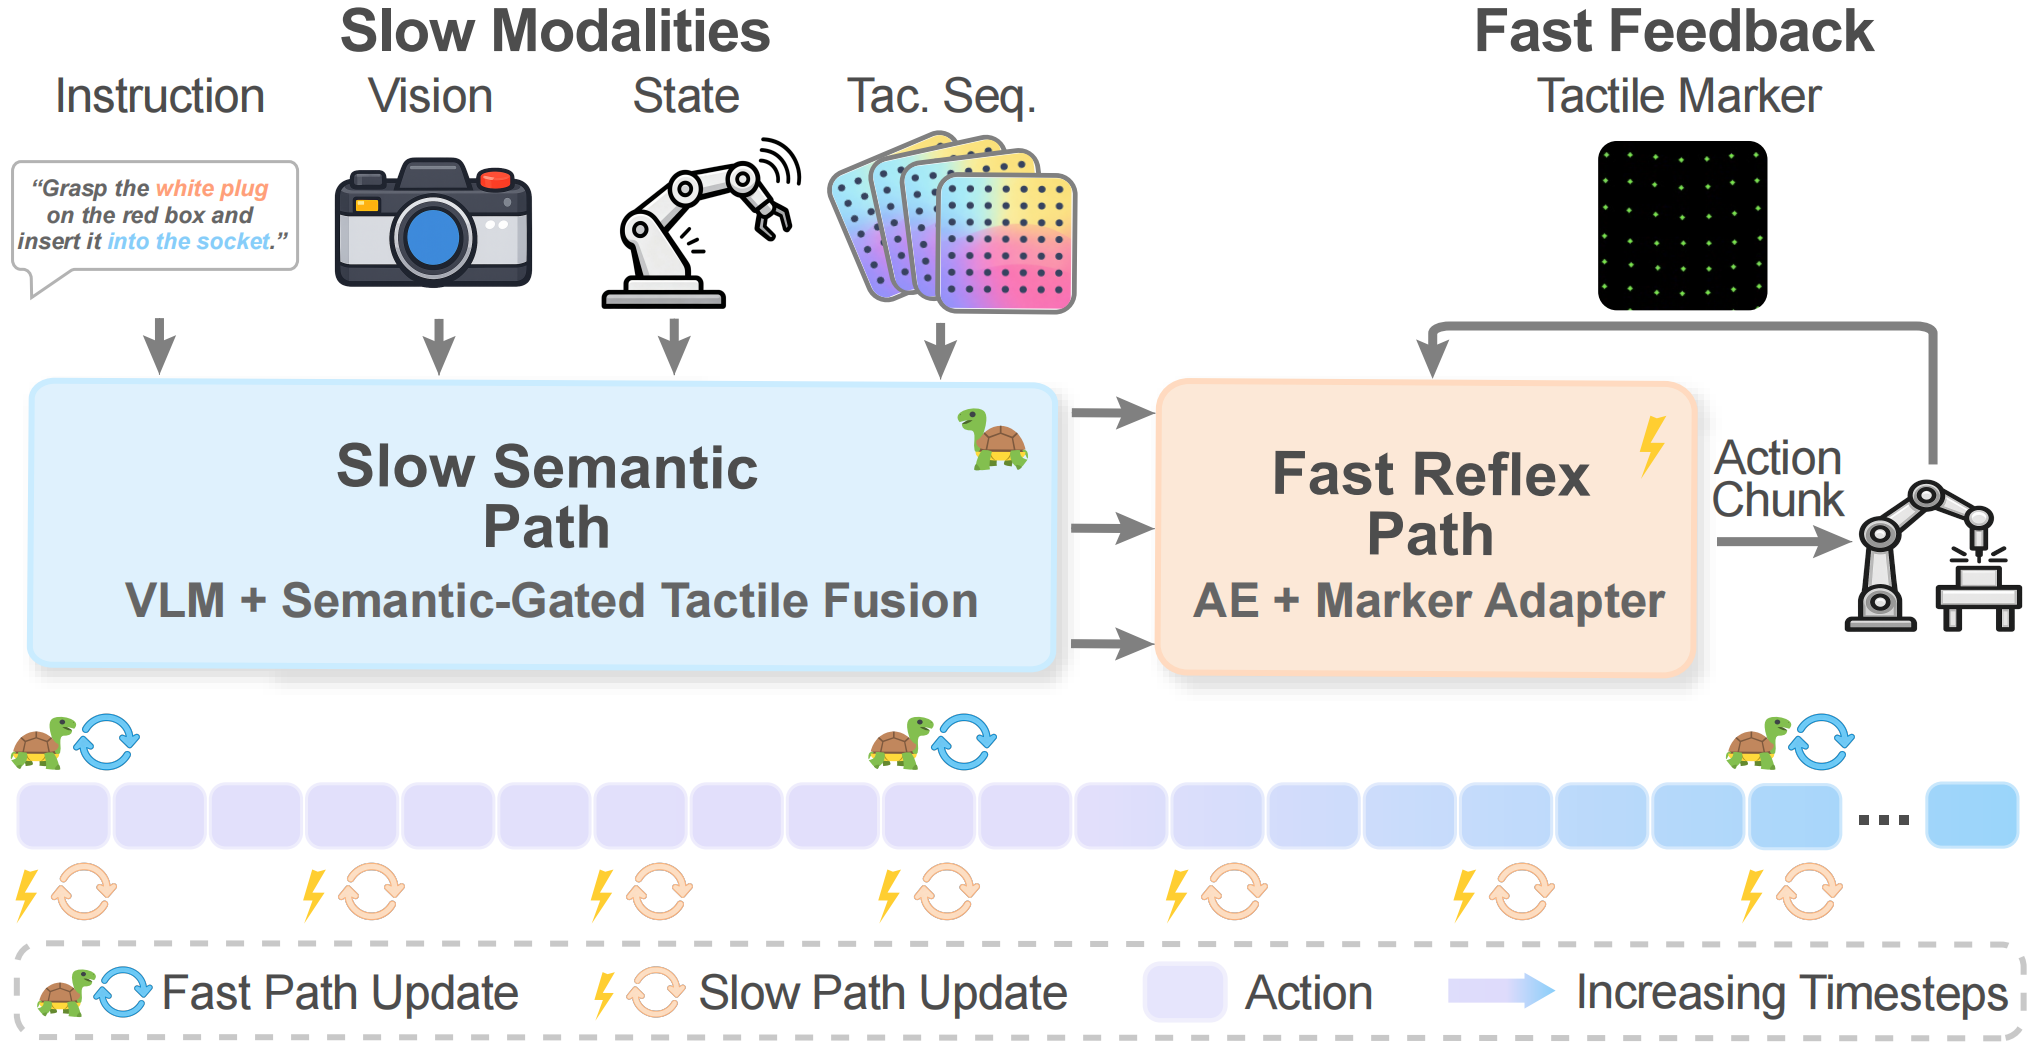
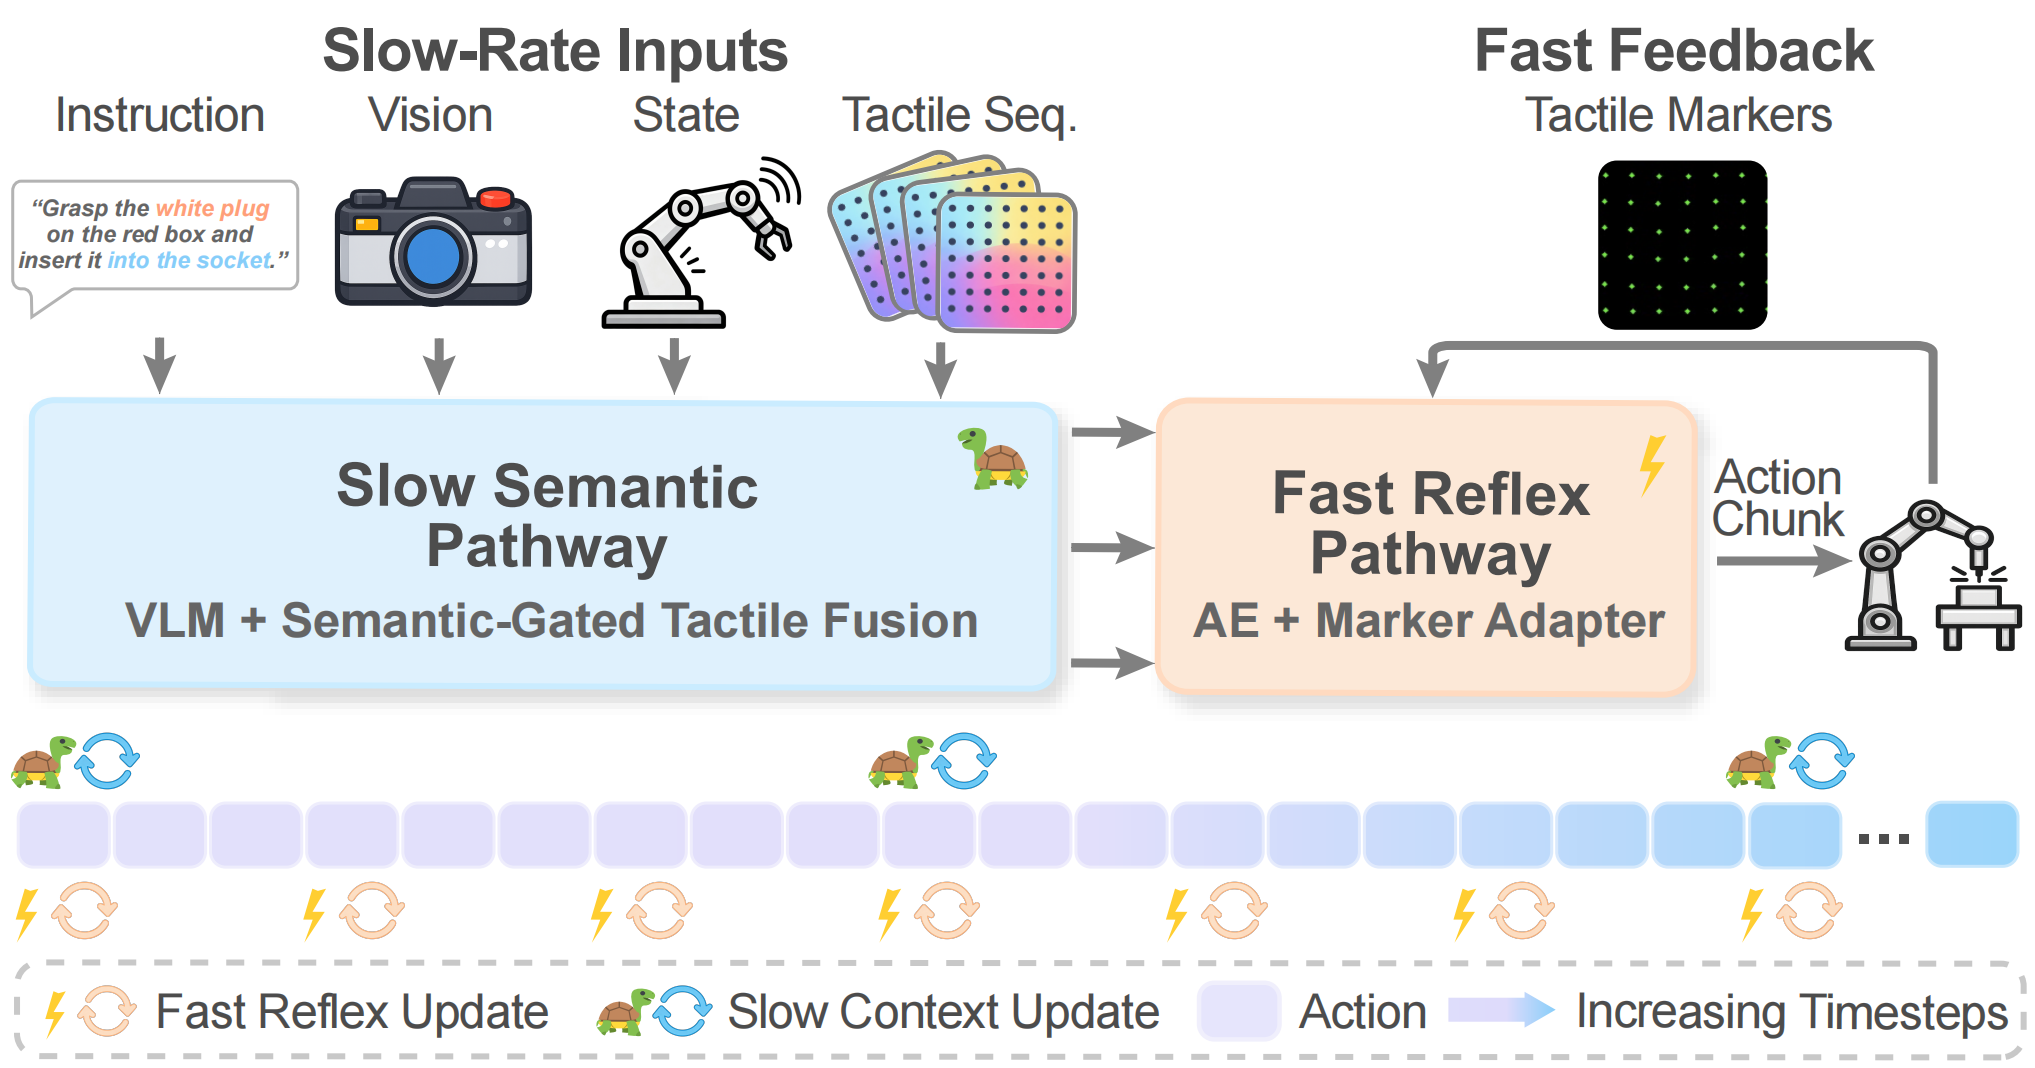
update

diff --git a/index.html b/index.html
@@ -239,16 +239,24 @@
             <div class="column has-text-centered" style="margin-top: 1rem;">
               <div class="publication-links">
                 <!-- Paper PDF link (not yet available) -->
-                <!-- <a href="#" target="_blank" class="button is-normal is-rounded is-dark">
-                  <span class="icon"><i class="fas fa-file-pdf"></i></span>
-                  <span>Paper</span>
-                </a> -->
+                <span class="link-block">
+                  <button class="external-link button is-normal is-rounded is-dark" type="button">
+                    <span class="icon">
+                      <i class="fas fa-file-pdf"></i>
+                    </span>
+                    <span>Paper</span>
+                  </button>
+                </span>
 
                 <!-- Code link (not yet available) -->
-                <!-- <a href="#" target="_blank" class="button is-normal is-rounded is-dark">
-                  <span class="icon"><i class="fab fa-github"></i></span>
-                  <span>Code</span>
-                </a> -->
+                <span class="link-block">
+                  <button class="external-link button is-normal is-rounded is-dark" type="button">
+                    <span class="icon">
+                      <i class="fab fa-github"></i>
+                    </span>
+                    <span>Code (coming soon)</span>
+                  </button>
+                </span>
               </div>
             </div>
 
@@ -270,7 +278,7 @@
       <img src="assets/images/teaser_01.png" alt="DT-TacVLA dual-timescale tactile fusion illustration" class="section-image" style="max-width: 75%;">
       <!-- Teaser caption -->
       <p class="teaser-caption has-text-justified">
-        <strong>DT-TacVLA</strong> is a dual-timescale tactile fusion framework built on SmolVLA that processes tactile inputs along two complementary pathways. The <em>slow semantic pathway</em> operates at a lower update rate and adaptively fuses tactile image sequences with VLM features through a semantic-guided gating mechanism, producing a reusable task&ndash;contact context. The <em>fast reflex pathway</em> is triggered multiple times during the execution of a single action chunk: it encodes the current tactile marker displacements into compact tokens and injects them into the action expert through a Tactile-Marker Adapter, providing real-time contact feedback modulation.
+        <strong>DT-TacVLA</strong> is a dual-timescale tactile fusion framework built on top of SmolVLA. Tactile image sequences, together with vision-language-proprioceptive inputs, enter the slow pathway to form a reusable task&ndash;contact context; tactile marker displacements serve as high-rate feedback to the fast pathway and instantaneously modulate the action chunks produced by the action expert. The bottom timeline illustrates the update-rate relationship between the slow and fast pathways.
       </p>
     </div>
   </section>
@@ -286,13 +294,13 @@
       <div class="highlight-box">
         <ul>
           <!-- Highlight 1: dual-timescale framework -->
-          <li>We propose <strong>DT-TacVLA</strong>, a dual-timescale tactile-enhanced VLA framework that places tactile image sequences and marker displacements on slow and fast timescales, respectively, inducing a hierarchical coupling between slow-context constraint and fast-feedback modulation.</li>
+          <li>We propose <strong>DT-TacVLA</strong>, a dual-timescale tactile-enhanced VLA framework that separates tactile image sequences and marker displacements by their semantic and feedback roles, letting the action expert combine a low-rate VLM-guided context with high-rate marker feedback through hierarchical slow&ndash;fast coupling.</li>
           <!-- Highlight 2: semantic-guided gating mechanism -->
-          <li>We design a <strong>Semantic-Guided Tactile Gating</strong> mechanism in the slow semantic pathway that adaptively fuses tactile image-sequence features based on VLM semantic summaries and proprioceptive state, producing a semantically conditioned slow context reusable across multiple fast reflex updates.</li>
+          <li>We design a <strong>Semantic-Guided Tactile Gating</strong> mechanism that conditions tactile image-sequence fusion on layer-wise VLM semantic summaries and proprioceptive state, producing a reusable slow context for subsequent fast reflex updates.</li>
           <!-- Highlight 3: marker-based reflex modulation -->
-          <li>We propose a <strong>Marker-Based Reflex Modulation</strong> method that encodes sparse tactile marker displacements into compact token representations and injects them into the action expert as additive residual attention, enabling real-time correction with only modest additional inference cost.</li>
+          <li>We introduce <strong>Marker-Based Reflex Modulation</strong>, which encodes sparse tactile marker displacements into compact tactile tokens and injects them through a lightweight adapter, enabling real-time action-chunk correction with low inference overhead.</li>
           <!-- Highlight 4: experimental validation -->
-          <li>DT-TacVLA consistently outperforms vision-only VLA baselines (Diffusion Policy, &pi;<sub>0.5</sub>, SmolVLA) and ablation variants on three contact-rich real-world manipulation tasks, achieving <strong>91.7%</strong> average success rate.</li>
+          <li>DT-TacVLA consistently outperforms vision-only VLA baselines (Diffusion Policy, &pi;<sub>0.5</sub>, SmolVLA) on three contact-rich real-world manipulation tasks, achieving <strong>91.7%</strong> average success rate.</li>
         </ul>
       </div>
     </div>
@@ -306,13 +314,13 @@
           <h2 class="title is-3">Abstract</h2>
           <div class="content has-text-justified">
             <p>
-              Vision&ndash;Language&ndash;Action (VLA) models exhibit strong semantic understanding and policy generalization, yet their predominantly vision-centric perception struggles to characterize key contact states such as contact establishment, in-hand slip, and normal/shear interactions, which limits their performance in contact-rich manipulation. In this paper, we propose <strong>DT-TacVLA</strong> (Dual-Timescale Tactile VLA), a dual-timescale tactile fusion framework built on top of SmolVLA that processes tactile inputs along two complementary slow and fast pathways.
+              Vision&ndash;Language&ndash;Action (VLA) models exhibit strong semantic understanding and policy generalization, yet their predominantly vision-centric perception struggles to characterize key contact states such as contact establishment, in-hand slip, and normal and shear contact interactions, which limits their performance in contact-rich manipulation. In this paper, we propose <strong>DT-TacVLA</strong> (Dual-Timescale Tactile-Enhanced VLA), a dual-timescale tactile fusion framework built on top of SmolVLA that processes tactile inputs along two complementary slow and fast pathways.
             </p>
             <p>
-              The <em>slow semantic pathway</em> operates at a lower update rate and adaptively fuses tactile image sequences with VLM features through a semantic-guided gating mechanism, producing a task&ndash;contact context that can be reused across multiple fast reflex updates. The <em>fast reflex pathway</em> is triggered multiple times during the execution of a single action chunk: it encodes the current tactile marker displacements into compact tokens and injects them into the action expert through a Tactile-Marker Adapter under the fixed slow-context conditioning, thereby providing real-time contact feedback modulation of the action chunk.
+              The <em>slow semantic pathway</em> operates at a lower update rate and adaptively fuses tactile image sequences with VLM features through a semantic-guided gating mechanism, producing a task&ndash;contact context that can be reused across multiple fast reflex updates. The <em>fast reflex pathway</em> is triggered multiple times during the execution of a single action chunk. Under the fixed slow-context conditioning, it encodes the current tactile marker displacements into compact tokens and injects them into the action expert through a Tactile-Marker Adapter, thereby providing real-time contact feedback modulation of the action chunk.
             </p>
             <p>
-              On three contact-rich real-world manipulation tasks&mdash;power plug insertion, USB connector insertion, and test-tube placement&mdash;DT-TacVLA consistently outperforms vision-only VLA baselines and its ablation variants in success rate.
+              We evaluate DT-TacVLA on three contact-rich real-world manipulation tasks: power plug insertion, USB connector insertion, and test tube placement. The results show that DT-TacVLA consistently outperforms vision-only VLA baselines in success rate.
             </p>
           </div>
         </div>
@@ -334,23 +342,23 @@
       <div class="content has-text-justified">
         <!-- Core design philosophy -->
         <p>
-          <strong>DT-TacVLA</strong> consists of three core modules:
+          Given expert demonstration trajectories, <strong>DT-TacVLA</strong> learns a Vision-Tactile-Language-Action (VTLA) policy that maps visual observation, language instruction, robot proprioceptive state, a recent tactile image sequence, and current tactile marker displacements to a continuous action chunk.
         </p>
         <p>
-          <strong>(a) Slow semantic pathway:</strong> The VLM processes vision and language inputs at a low rate and outputs multi-layer hidden states. A tactile sequence encoder extracts temporal features from the recent tactile history. A semantic-guided gating mechanism fuses the semantic summary, the proprioceptive encoding, and the tactile sequence features to produce slow-context conditions, which are written into a reusable K/V cache.
+          <strong>(a) Slow semantic pathway:</strong> The VLM processes vision and language inputs at a low rate and outputs multi-layer hidden states aligned with the action expert. TacVideoMAE extracts temporal features from the recent tactile image history, and the semantic-guided gating mechanism fuses the layer-wise semantic summary, proprioceptive encoding, and tactile sequence features to produce slow-context conditions. These conditions are written into a reusable K/V cache and remain fixed across several subsequent fast reflex updates.
         </p>
         <p>
-          <strong>(b) Fast reflex pathway:</strong> The action expert reuses the cached slow-context conditions. Meanwhile, a marker extractor obtains low-dimensional tactile markers from the tactile images, encodes them into tactile tokens, and injects them into the action tokens as an additive residual to generate continuous action chunks.
+          <strong>(b) Fast reflex pathway:</strong> The action expert reuses the cached slow-context conditions. Meanwhile, the marker extractor tracks the tactile marker array in the most recent frame, encodes the marker displacements into compact tactile tokens, and injects them into the action tokens as an additive residual through the Tactile-Marker Adapter.
         </p>
         <p>
-          <strong>(c) Fast&ndash;slow coupling:</strong> The slow system updates the context cache at a low rate, while the fast system continuously updates the action chunk under this constraint based on the most recent tactile markers. This hierarchical coupling ensures stable task understanding with responsive contact correction.
+          <strong>(c) Fast&ndash;slow coupling:</strong> The slow pathway determines the task&ndash;contact semantics that the action expert should attend to, while the fast pathway applies instantaneous tactile corrections within this context. During inference, the slow K/V cache remains unchanged inside a slow window; only the tactile marker tokens are updated with the current tactile frame.
         </p>
       </div>
 
       <!-- Hierarchical modulation figure -->
       <img src="assets/images/fusion_01.png" alt="Hierarchical modulation by slow and fast conditions" class="section-image" style="max-width: 75%;">
       <p class="teaser-caption has-text-justified">
-        <strong>Hierarchical modulation of the action expert.</strong> The slow context acts as a stable upper-level condition that participates in updating the action tokens; the tactile marker tokens are then injected through the Tactile-Marker Adapter as an additive residual, providing high-rate closed-loop modulation of the action chunk.
+        <strong>Hierarchical modulation of the action expert.</strong> The layer-wise slow context is projected and cached as K/V, serving as a stable upper-level condition for action-token updates. After attention over this slow context, tactile marker tokens are injected through the Tactile-Marker Adapter as an additive residual, providing high-rate closed-loop modulation of the action chunk.
       </p>
     </div>
   </section>
@@ -362,19 +370,17 @@
         <h2 class="title is-3">Contact-Rich Manipulation Tasks</h2>
       </div>
 
+      <div class="content has-text-justified" style="margin-top: 2rem; margin-bottom: 0.25rem;">
+        <p style="margin-bottom: 0;">
+          To evaluate the effectiveness of DT-TacVLA in contact-rich manipulation, we conduct experiments on <strong>three real-robot tasks</strong>:
+        </p>
+      </div>
+
       <!-- Task illustration -->
-      <img src="assets/images/tasks_01.png" alt="Contact-rich manipulation task examples" class="section-image">
+      <img src="assets/images/tasks_01.png" alt="Contact-rich manipulation task examples" class="section-image" style="margin-top: 0.5rem;">
 
       <!-- Task description -->
       <div class="content has-text-justified">
-        <p>
-          To evaluate the effectiveness of DT-TacVLA in contact-rich manipulation, we conduct experiments on <strong>three real-robot tasks</strong>:
-        </p>
-        <ul>
-          <li><strong>Power Plug Insertion</strong>: Inserting a power plug into a socket with tight tolerance</li>
-          <li><strong>USB Connector Insertion</strong>: Inserting a USB connector requiring precise alignment</li>
-          <li><strong>Test Tube Placement</strong>: Placing a test tube into a rack with contact-sensitive release</li>
-        </ul>
         <p>
           Each task contains two phases&mdash;free-space motion and contact interaction&mdash;making it possible to test the policy's ability to switch between the vision-dominated non-contact phase and the touch-dominated contact phase and to fuse multimodal information.
         </p>
@@ -382,6 +388,12 @@
         <!-- Hardware platform description -->
         <p>
           <strong>Hardware platform:</strong> The experimental platform consists of a <strong>UR5 robotic arm</strong> and an <strong>Inspire EG2-4C2 gripper</strong>, with one <strong>Vitai GF255 vision-based tactile sensor</strong> mounted on each fingertip. Visual observations are provided by two RGB-D cameras: an Intel RealSense L515 for the global scene view and an Intel RealSense D435i mounted on the wrist for a close-range end-effector view.
+        </p>
+        <p>
+          <strong>Experimental protocol:</strong> We collect <strong>100 expert demonstration trajectories</strong> for each task using a Vive-Tracker-based teleoperation system. Each method is evaluated with <strong>20 real-robot trials per task</strong>; before each trial, the object and gripper states are reset and the scene is randomized. A trial is successful only when the insertion or placement is completed and the target remains stable without obvious tipping or jamming.
+        </p>
+        <p>
+          <strong>Implementation details:</strong> Global and wrist RGB-D images are captured at <strong>640&times;480</strong>, while the tactile sensor outputs <strong>256&times;256</strong> tactile images and an <strong>11&times;11</strong> marker displacement array. The policy uses one tactile sensor stream, the most recent <strong>K=4</strong> tactile frames, <strong>N<sub>raw</sub>=398</strong> TacVideoMAE tokens pooled into <strong>N<sub>t</sub>=96</strong> tactile tokens, action chunks of length <strong>H=50</strong>, and <strong>R=3</strong> fast reflex updates by default. All methods are trained or fine-tuned for <strong>40,000</strong> optimization steps with batch size <strong>64</strong> on a workstation with two NVIDIA RTX 5090D GPUs.
         </p>
       </div>
     </div>
@@ -602,6 +614,9 @@
       <!-- Main results comparison table -->
       <div class="content" style="margin-top: 2rem;">
         <h3 class="title is-4 has-text-centered">Success Rates Comparison</h3>
+        <p class="has-text-centered small-caption">
+          Success rates are measured with 20 real-robot trials per task per model, following the evaluation protocol in the paper.
+        </p>
         <div class="table-container">
           <table class="table is-bordered is-striped is-hoverable is-fullwidth">
             <thead>
@@ -645,86 +660,15 @@
             </tbody>
           </table>
         </div>
-      </div>
-    </div>
-  </section>
-
-  <!-- ==================== Ablation Study ==================== -->
-  <section class="section hero is-light" id="ablation">
-    <div class="container is-max-desktop">
-      <div class="has-text-centered">
-        <h2 class="title is-3">Ablation Study</h2>
-      </div>
-
-      <!-- Ablation study description -->
-      <div class="content has-text-justified">
-        <p>
-          To verify the contribution of each component, we construct two ablation variants:
-        </p>
-        <ul>
-          <li><strong>w/o Gated Fusion</strong>: Removes the semantic-guided tactile gating and injects tactile observation directly into the VLM as early-fusion input.</li>
-          <li><strong>w/o Fast Reflex</strong>: Removes the fast reflex pathway and retains only the slow semantic pathway.</li>
-        </ul>
-      </div>
-
-      <!-- Ablation study table -->
-      <div class="content">
-        <div class="table-container">
-          <table class="table is-bordered is-striped is-hoverable is-fullwidth">
-            <thead>
-              <tr>
-                <th>Variant</th>
-                <th>Power Plug</th>
-                <th>USB Connector</th>
-                <th>Test Tube</th>
-                <th>Average</th>
-              </tr>
-            </thead>
-            <tbody>
-              <tr>
-                <td>w/o Gated Fusion</td>
-                <td>70%</td>
-                <td>70%</td>
-                <td>75%</td>
-                <td>71.7%</td>
-              </tr>
-              <tr>
-                <td>w/o Fast Reflex</td>
-                <td>85%</td>
-                <td>65%</td>
-                <td>80%</td>
-                <td>76.7%</td>
-              </tr>
-              <tr style="background-color: #eef3ff; font-weight: 700;">
-                <td>DT-TacVLA (Full)</td>
-                <td>100%</td>
-                <td>80%</td>
-                <td>95%</td>
-                <td>91.7%</td>
-              </tr>
-            </tbody>
-          </table>
+        <div class="content has-text-justified" style="margin-top: 1rem;">
+          <p>
+            Diffusion Policy achieves only 36.7% average success because it relies on visual observations and cannot obtain local contact feedback during insertion or placement. The VLA baselines &pi;<sub>0.5</sub> and SmolVLA benefit from vision-language pretraining, but they still fail when the contact state is hard to observe externally.
+          </p>
+          <p>
+            DT-TacVLA achieves the highest success rate on all three tasks. The slow semantic pathway uses tactile image history to identify contact phases and in-hand pose changes, while the fast reflex pathway modulates action generation from the current marker displacements to correct contact drift, insertion jamming, and unstable grasping.
+          </p>
         </div>
       </div>
-
-      <!-- Ablation analysis -->
-      <div class="content has-text-justified">
-        <p>
-          <strong>w/o Gated Fusion</strong> achieves only 71.7% average success rate (20.0pp lower), indicating that directly injecting tactile observation lacks adaptive regulation with respect to the task phase and proprioceptive state, easily introducing redundant features during free-space motion.
-        </p>
-        <p>
-          <strong>w/o Fast Reflex</strong> achieves 76.7% (15.0pp lower), showing that although the slow semantic pathway provides an effective task&ndash;contact context, removing the fast reflex pathway leaves the policy unable to quickly respond to the latest shear-field variations and correct contact drift.
-        </p>
-      </div>
-
-      <!-- Fast-slow timescale analysis figure -->
-      <div class="has-text-centered" style="margin-top: 2rem;">
-        <h3 class="title is-4">Fast&ndash;Slow Timescale Analysis</h3>
-      </div>
-      <img src="assets/images/R_bar_01.png" alt="Success rates of different R values" class="section-image" style="max-width: 75%;">
-      <p class="teaser-caption has-text-justified">
-        <strong>Impact of fast reflex update rate R.</strong> The success rate increases as R grows and peaks at R=3. Power plug and USB connector insertion involve tight-tolerance strokes that require multiple fast reflexes to suppress accumulated contact drift, while test-tube placement is less sensitive to the reflex rate.
-      </p>
     </div>
   </section>
 
@@ -741,10 +685,10 @@
           This paper proposes <strong>DT-TacVLA</strong>, a dual-timescale tactile-enhanced Vision&ndash;Language&ndash;Action framework tailored to contact-rich manipulation. Compared with VLA methods that are primarily vision-driven or introduce tactile sensing at a single rate, DT-TacVLA models the task&ndash;contact context through the slow semantic pathway and applies instantaneous modulation to the action chunk via the fast reflex pathway using marker displacements, thereby capturing fine contact interactions more effectively.
         </p>
         <p>
-          Real-robot experiments show that DT-TacVLA outperforms vision-only VLA baselines and its ablation variants on power plug insertion, USB connector insertion, and test-tube placement, validating the effectiveness of dual-timescale tactile fusion for high-precision contact manipulation.
+          Real-robot experiments show that DT-TacVLA outperforms vision-only VLA baselines on power plug insertion, USB connector insertion, and test tube placement, validating the effectiveness of dual-timescale tactile fusion for high-precision contact manipulation.
         </p>
         <p>
-          <strong>Future work</strong> will further introduce reinforcement learning to refine the contact policy through interactive trial-and-error on top of the dual-timescale tactile feedback, and to improve the model's robustness under complex contact perturbations, bimanual coordination, and deformable-object manipulation.
+          Although DT-TacVLA demonstrates strong contact-adaptation capability, the policy still relies primarily on offline demonstration data and cannot fully cover continuous error recovery and long-tailed contact failure states. Future work will introduce reinforcement learning to refine the contact policy through interactive trial-and-error on top of dual-timescale tactile feedback, and will improve robustness under complex contact perturbations, bimanual coordination, and deformable-object manipulation.
         </p>
       </div>
     </div>